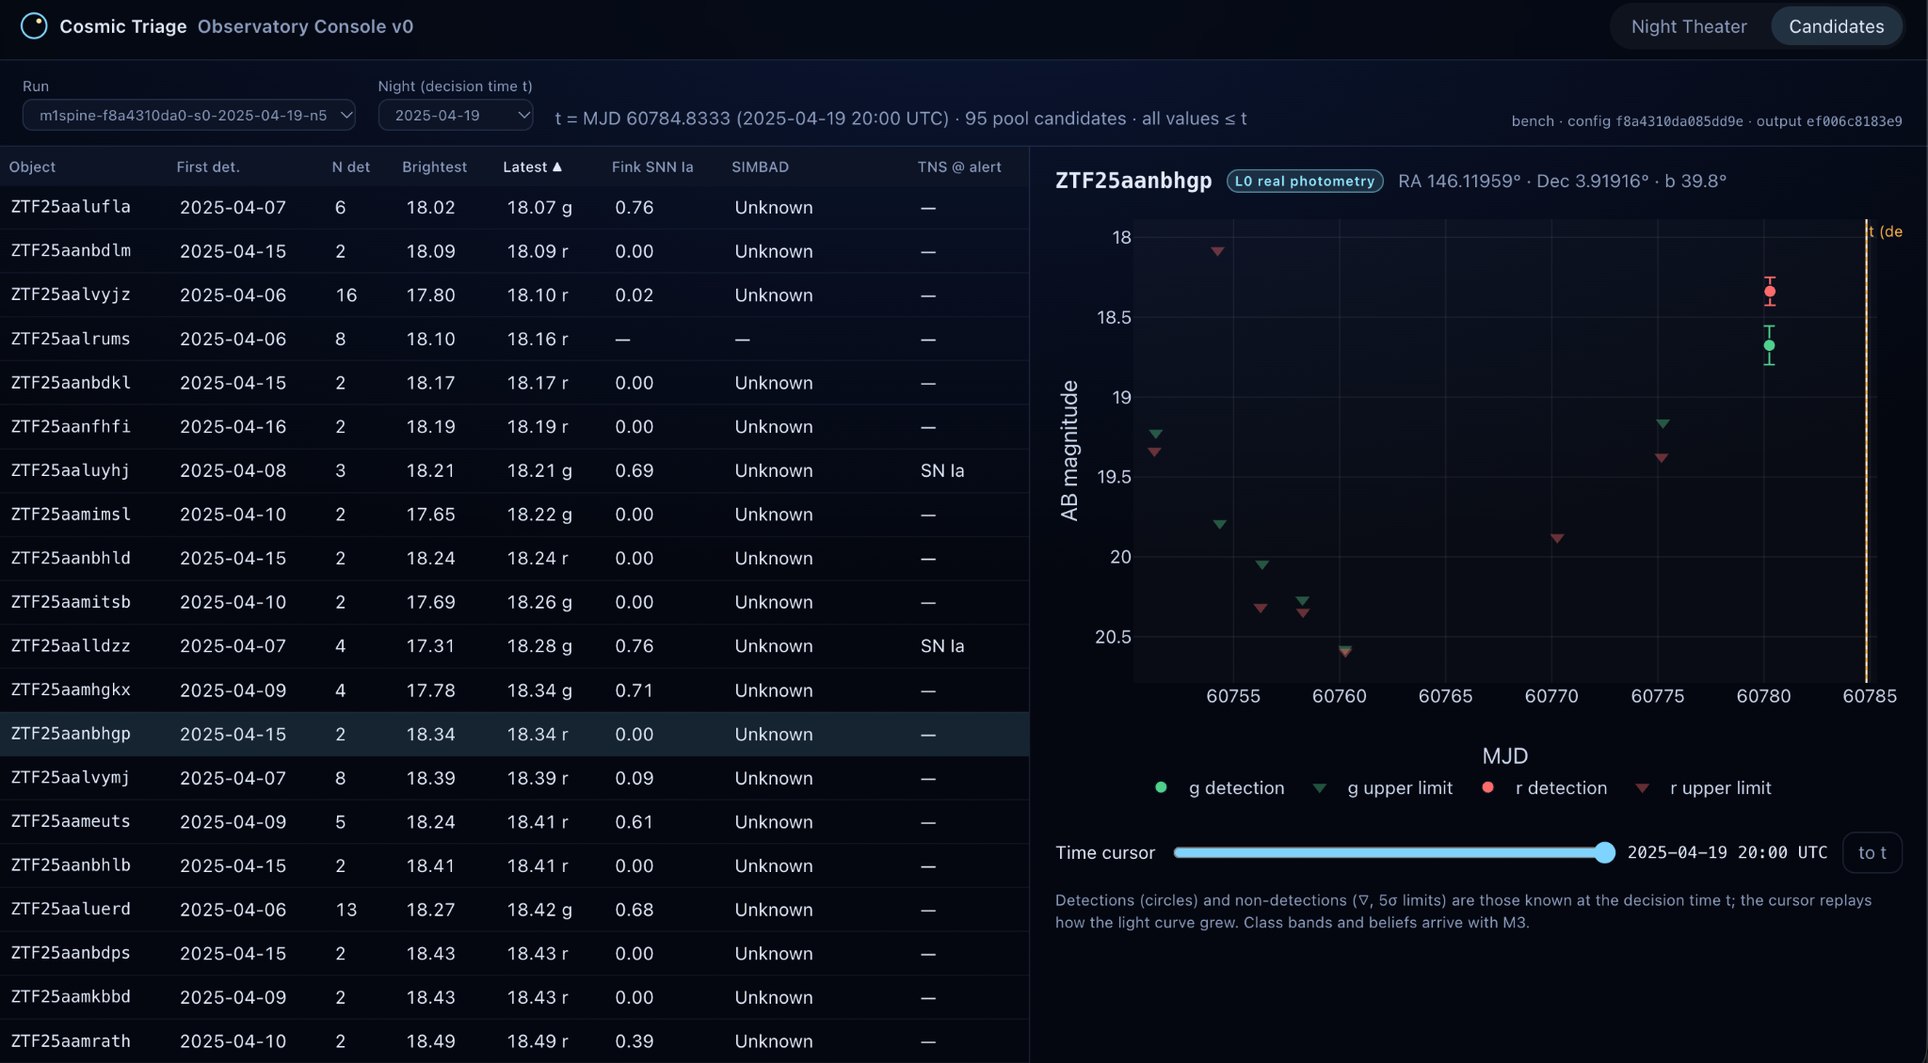
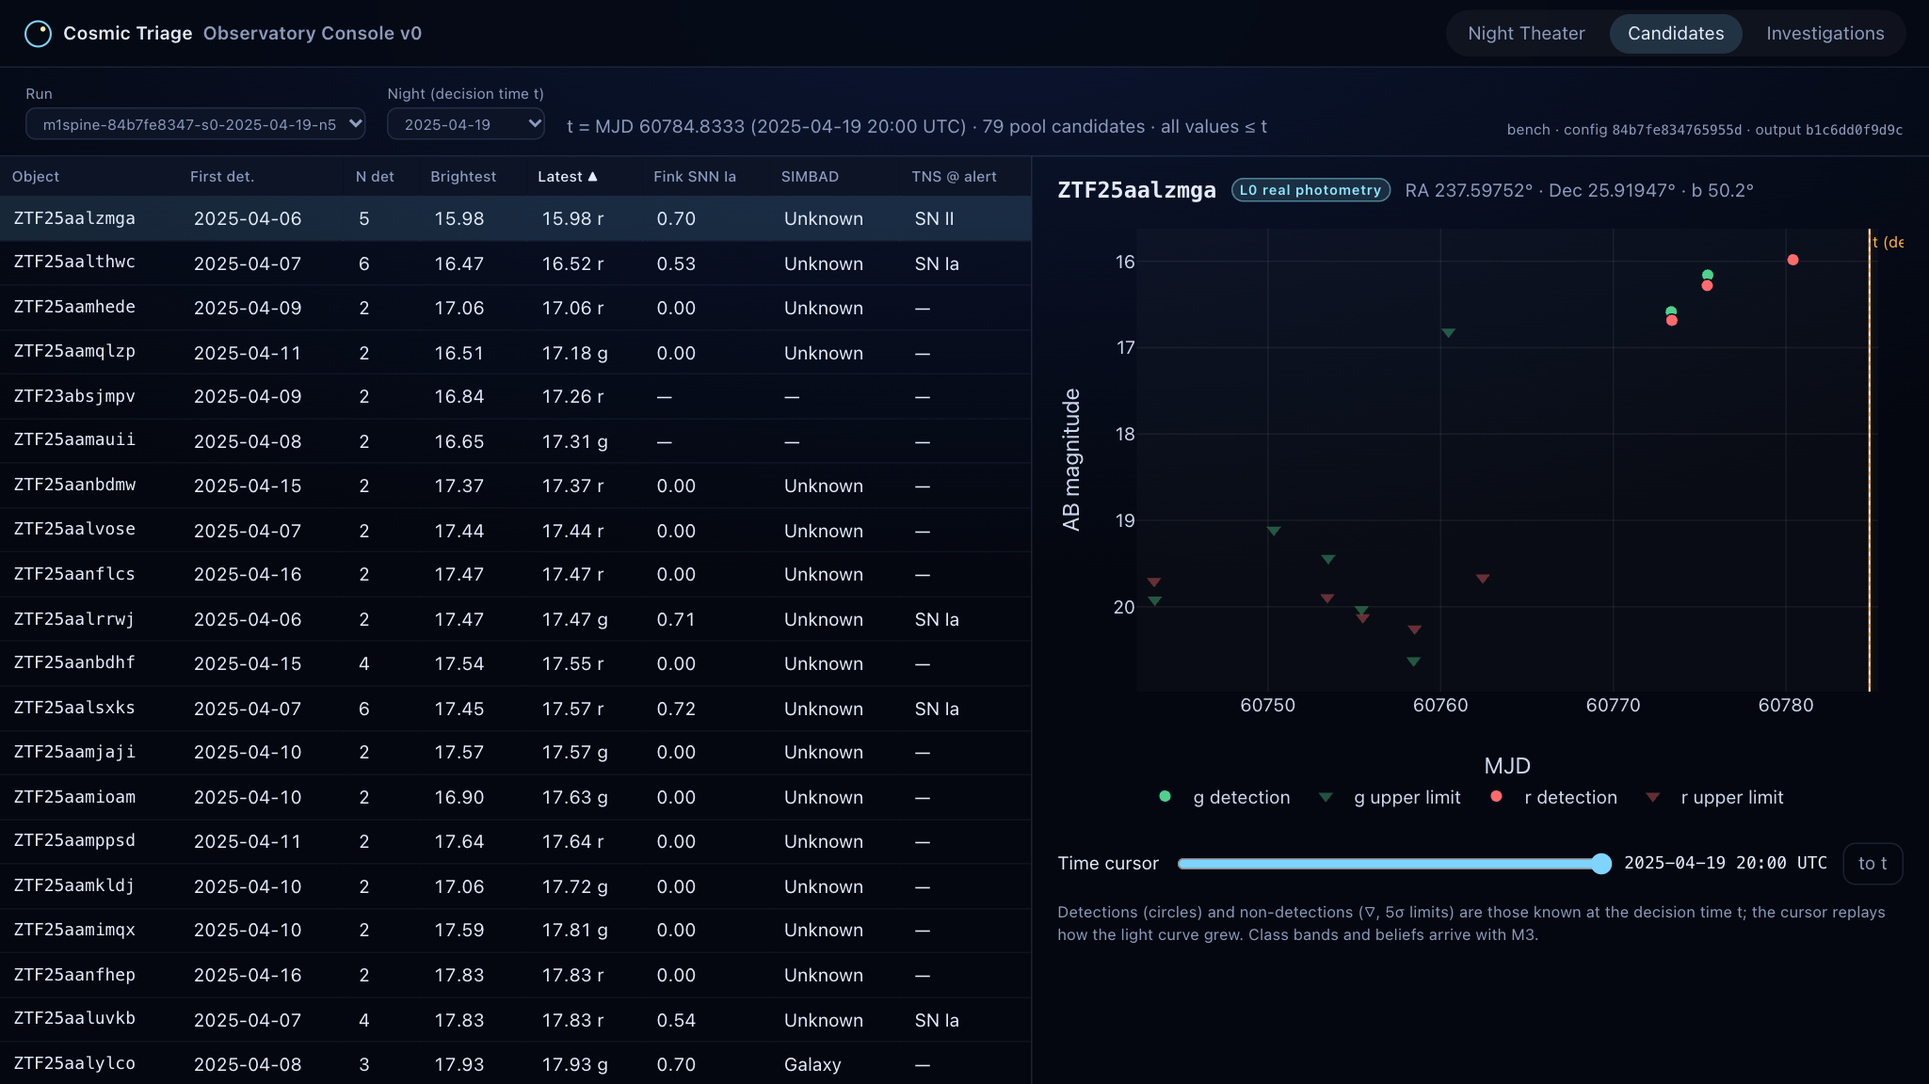
Public-release pass: README first impression, current screenshots, synthetic corpus fixtures
- README: opening now states the problem, the system, the Jev-vs-LLM-vs-deterministic question, and
  the time-honesty challenge, followed by a short "Built so far" summary in place of the long stage
  disclaimer. The status table still gives each component's precise status.
- Limitations are now one concise section. It makes clear that the 59.4% (85/143) recall measures the
  upstream candidate filter, not agent or Jev accuracy, and links M1.1/M2 for the full analyses.
- Mermaid diagram marks implemented (solid) vs planned (dashed, labelled) components.
- Screenshots recaptured from the current console (79-candidate M1.1 run, Investigations tab).
- GCN/ATel/AstroNote test fixtures replaced with synthetic pages that keep the parser structure and
  the leakage cases under test (scripts/make_corpus_fixtures.py); record_fixtures.py no longer
  copies published text into tests/fixtures.

No application, model, or scientific logic changed. 239 offline tests pass.

diff --git a/scripts/make_corpus_fixtures.py b/scripts/make_corpus_fixtures.py
@@ -1,0 +1,92 @@
+"""Write synthetic GCN / ATel / AstroNote fixtures for the offline corpus-parser tests.
+
+The text corpora are third-party publications, so the fixtures do not redistribute them: each payload reproduces
+only the page *structure* the parsers in ``cosmic_triage.ingest.corpora`` rely on (date stamp, title, references
+block, related-telegrams panel, AstroNote tooltips), with invented wording. They keep the leakage cases the tests
+check: later-telegram back-links in an ATel and current-type/redshift tooltips in an AstroNote listing.
+Offline; no network. Usage: uv run python scripts/make_corpus_fixtures.py
+"""
+
+from __future__ import annotations
+
+import sys
+
+from cosmic_triage.ingest import Cache
+from cosmic_triage.settings import PROJECT_ROOT
+
+SYNTHETIC = "SYNTHETIC TEST FIXTURE: invented text, not a real publication."
+
+GCN = {
+    "circularId": 39000,
+    "createdOn": 1737386652891,  # 2025-01-20 15:24:12 UTC (the date the parser test checks)
+    "eventId": "GRB 000000A",
+    "format": "text/plain",
+    "subject": "GRB 000000A: synthetic test circular",
+    "submittedHow": "web",
+    "submitter": "Test Author at Example Observatory",
+    "body": f"{SYNTHETIC}\nTest Author (Example Observatory) reports on behalf of the Example team:\n"
+            "A synthetic afterglow candidate was observed at a placeholder position. No real data.",
+}
+
+
+def _atel_ref(n: int) -> str:
+    return f'<A HREF="https://www.astronomerstelegram.org/?read={n}">{n}</a>'
+
+
+ATEL = f"""<html><head><title>ATel #17100: synthetic test telegram</title>
+<script type="text/javascript">var page = "synthetic";</script></head><body>
+<div id="header"><p>Synthetic header</p></div>
+<div id="telegram"><h1 class="title">Synthetic transient detected by the Einstein Probe test fixture</h1>
+<P><EM><STRONG><A HREF="mailto:none">Test Author (Example Observatory)</A> on behalf of the Einstein Probe team:</A></STRONG><BR>
+ on <STRONG>22 Mar 2025; 07:39 UT</STRONG><BR><EM>Credential: Test Author (Example Observatory)</EM></EM></P>
+<div id="subjects"><p class="subjects">Subjects: Optical, X-ray, Transient</P></div id="subjects">
+<div id="references"><p>Referred to by ATel #:  {_atel_ref(17101)},   {_atel_ref(17195)}</p></div id="references">
+<script type="text/javascript">var tweet = 1;</script>Tweet
+<P>{SYNTHETIC} The Einstein Probe test team reports a synthetic X-ray transient at a placeholder position.
+Follow-up is encouraged. This paragraph is the telegram body the parser keeps.</P>
+<div id="related"><p>Related: {_atel_ref(17101)} Synthetic later telegram; {_atel_ref(17195)} Another later telegram</p></div>
+</div></body></html>
+"""
+
+
+def _note(note_id: str, released: str, title: str, objname: str, cur_type: str, cur_z: str) -> str:
+    return (
+        f'<div id="note-{note_id}" class="note note-{note_id} clearfix note-public" note-id="{note_id}" row-index="0">'
+        '<div class="note-data-wrapper"><div class="note-top">'
+        f'<div class="note-top-param note-id"><a href="https://www.wis-tns.org/astronotes/astronote/{note_id}" '
+        f'class="note-link">AstroNote {note_id}</a></div>'
+        '<div class="note-top-param type">Type: <a href="#" class="note-type-link">Classification</a></div>'
+        f'<div class="note-top-param latmodified">Released: <span class="note-lastmodified">{released}</span></div></div>'
+        f'<div class="row-data"><div class="note-title">{title}</div>'
+        '<div class="note-coauthors">Test Author (Example Observatory)</div>'
+        '<div class="note-objects"><span class="field-title">Related Objects: </span><div class="object-wrapper">'
+        f'<a href="javascript:void(0)" ra="00:00:00.000" dec="+00:00:00.00" class="object-tooltip-link">{objname}</a>'
+        '<div class="object-tooltip description"><span class="tooltip-arrow-outer"></span>'
+        '<div class="tooltip-line"><span class="tootip-line-title">RA, DEC:</span>00:00:00.000 +00:00:00.00</div>'
+        f'<div class="tooltip-line"><span class="tootip-line-title">Redshift:</span>{cur_z}</div>'
+        f'<div class="tooltip-line"><span class="tootip-line-title">Type:</span>{cur_type}</div>'
+        '<span class="tooltip-arrow-inner"></span></div></div></div>'
+        f'<div class="note-abstract">{SYNTHETIC} Synthetic abstract for {objname}.</div></div></div></div>\n'
+    )
+
+
+ASTRONOTE = (
+    "<html><body><div class=\"notes-list\">\n"
+    + _note("2026-291", "2026-10-14 15:53:52", "Synthetic classification note A", "2026aaa", "SN Ia", "0.05")
+    + _note("2026-290", "2026-10-13 09:12:05", "Synthetic classification note B", "2026aab", "SN II", "0.02")
+    + _note("2026-289", "2026-10-12", "Synthetic follow-up note C", "2026aac", "", "")
+    + "</div></body></html>\n"
+)
+
+
+def main() -> int:
+    fx = Cache(root=PROJECT_ROOT / "tests" / "fixtures" / "cache", offline=False)
+    fx.put("gcn", "circular", {"id": 39000}, GCN)
+    fx.put("atel", "telegram", {"read": 17100}, ATEL)
+    fx.put("astronote", "listing", {"page": 0}, ASTRONOTE)
+    print("wrote synthetic gcn.circular, atel.telegram, astronote.listing fixtures")
+    return 0
+
+
+if __name__ == "__main__":
+    sys.exit(main())

diff --git a/scripts/record_fixtures.py b/scripts/record_fixtures.py
@@ -54,12 +54,11 @@ def main() -> int:
     copy("simbad", "cone", {"ra": 186.27, "dec": 12.887, "r": 60, "top": 25})
     NedClient(live).cone(186.27, 12.887, 60)
     copy("ned", "cone", {"ra": 186.27, "dec": 12.887, "r": 60, "top": 25})
+    # GCN / ATel / AstroNote fixtures are synthetic (third-party publications are not redistributed):
+    # see scripts/make_corpus_fixtures.py. The live fetches below only warm the local cache.
     GcnClient(live).circular(39000)
-    copy("gcn", "circular", {"id": 39000})
     AtelClient(live).raw(17100)
-    copy("atel", "telegram", {"read": 17100})
     AstroNoteClient(live).listing_raw(0)
-    copy("astronote", "listing", {"page": 0})
     # BTS: trimmed copy of the snapshot (header + probe rows + a deterministic sample incl. unclassified rows).
     rcfg, _ = load_config("configs/replay/replay.yaml")
     params = {"snapshot_date": str(rcfg["bts_snapshot_date"]), **UNFILTERED_PARAMS}

diff --git a/README.md b/README.md
@@ -1,51 +1,59 @@
 # Cosmic Triage
 
-**Cosmic Triage investigates astronomical transients using grounded AI agents to determine which objects deserve limited telescope follow-up time.**
+**Cosmic Triage investigates astronomical transients with grounded AI agents to decide which objects deserve limited telescope follow-up time, using only the evidence that existed at the moment of decision.**
 
-### Can a grounded AI investigator make better decisions about where to point a telescope?
+**The problem.** Sky surveys such as the Zwicky Transient Facility (ZTF) report far more new transient candidates every night than follow-up telescopes can observe. Some are exploding stars worth a spectrum. Others are variable stars, active galaxies, asteroids, or artifacts, and some were already classified by another team hours earlier. Every night, someone has to decide which few candidates get the telescope.
 
-Astronomical surveys surface more transient candidates than a follow-up telescope can observe. Some are newly exploding stars. Others are variable galaxies, stars, asteroids, or artifacts. A promising target might already have been classified by another team. The difficult question is not just **what is this object?** It is **which observation is worth spending limited telescope time on, given what was known at that moment?**
+**The system.** Cosmic Triage replays real ZTF nights and sends candidates to an **Investigator**. This is a code-owned agent loop with six scientific tools. Every claim it makes must cite dated evidence in an EvidenceLedger and pass a deterministic validator chain before it can influence a decision. An interactive **Observatory Console** replays the night at Palomar and shows each investigation step by step.
 
-Cosmic Triage is a learning-driven engineering project exploring that question with historical observations from the Zwicky Transient Facility (ZTF). It is being built to combine a tool-using AI Investigator, evidence validation, probabilistic decision-making, observation scheduling, and an interactive replay of a night at Palomar Observatory.
+**The question.** Where do specialized decision models such as TypeSafe's **Jev** outperform larger LLMs or deterministic code on decision quality, latency, and cost, and where don't they? Each model sits in a swappable slot (gate, extractor, verifier) alongside a deterministic baseline, so its contribution can be measured rather than assumed.
 
-The broader engineering objective is to measure whether **typed, tool-using agents improve decisions over simpler approaches**, such as rules, broker scores, and non-agent baselines, once evidence quality, reliability, and inference cost are accounted for. The system is a research prototype. It does **not** control a physical telescope and makes no claim of new astronomical discovery.
+**The engineering challenge.** Decisions must be historically honest. Each candidate is judged at a past decision time *t*, using only what was known then. A detection is excluded if it was delivered in a later alert, and catalog entries or reports dated after *t* are filtered out at the tool layer. Adversarial leakage fixtures enforce this on every test run.
 
-> **Current stage: Investigator v1 implemented and running in deterministic, exploratory mode.** Historical replay and the Observatory Console run on real ZTF data. The Claude and Jev integrations are implemented behind feature flags but have **not yet been exercised with live paid model calls**. The scheduler and the comparative benchmark are next, so there are **no benchmark results yet**. See [Project status](#project-status).
+**Built so far:** a six-tool Investigator with evidence provenance and deterministic validation, time-bounded replay of real ZTF observations, and an interactive Observatory Console. Claude and Jev decision components are integrated for controlled evaluation. Live model evaluation, the telescope scheduler, and comparative benchmarks are the next milestones ([status](#project-status)).
 
 ## See it in action
 
-![Night Theater: a replayed night at Palomar with candidates on the sky, Sun and Moon, the 30° altitude limit, and a selected candidate's light curve](docs/assets/night-theater.png)
+![Night Theater: a replayed night at Palomar with candidates on the sky dome, the 30° altitude limit, and the selected candidate ZTF25aalzmga with its light curve](docs/assets/night-theater.png)
 
-*Night Theater: scrub through a historical night at Palomar to see candidates move across the sky, twilight and Moon, and which targets clear the 30° altitude limit.*
+*Night Theater: a replay of the night of 2025-04-19 at Palomar, with candidates moving across the sky. The selected supernova candidate shows its track, its altitude, and what was known at decision time.*
 
-![Candidate Explorer: a table of pool candidates at the decision time and one candidate's light curve with detections and upper limits](docs/assets/candidate-explorer.png)
+![Candidate Explorer: the candidate pool at decision time t and the light curve of ZTF25aalzmga with detections and upper limits](docs/assets/candidate-explorer.png)
 
-*Candidate Explorer: each candidate's light curve and the information available at the historical decision time t. Circles are detections; triangles are non-detection limits (lower magnitude = brighter).*
+*Candidate Explorer: the candidate pool at decision time t. Every value shown was known at or before t; circles are detections and triangles are non-detection limits.*
 
-These screenshots come from the early S0 console, captured before the M1.1 replay-integrity fixes. Candidate counts have since changed: the 2025-04-19 pool shown here had 95 candidates and now has 79. The current console also has an **Investigations** tab. The telescope is simulated; the ZTF observations are historical.
+![Investigations view: the trace for ZTF25aalzmga, showing tool calls, a validated prior-classification claim with its checks, the code-owned effect on spectrum reward, and the evidence ledger dated relative to t](docs/assets/investigations.png)
+
+*Investigation trace for the same object: Fink's alert-time record shows it was already classified as SN II 11.5 days before t. The claim passes all six validation checks, and code sets that candidate's spectrum reward factor to 0. This is an exploratory run, not a benchmark.*
+
+The telescope is simulated; the ZTF observations are real and historical.
 
 ## How it works
 
 ```mermaid
 flowchart TD
     A[Historical ZTF alerts and catalog data] --> B[Time-bounded candidate snapshots]
-    B --> C[Candidate beliefs]
+    B --> C["Calibrated candidate beliefs (planned)"]
     B --> D[AI Investigator]
     D --> E[Scientific tools and dated sources]
     E --> F[Typed evidence and claims]
     F --> G[Deterministic validation and evidence ledger]
     G --> H[Code-owned effects on decisions]
-    C --> I[Expected observation value]
+    C --> I["Expected observation value (planned)"]
     H --> I
-    I --> J[Visibility and telescope-time scheduler]
-    J --> K[Historical replay and policy comparison]
+    I --> J["Visibility and telescope-time scheduler (planned)"]
+    J --> K["Policy comparison on replayed nights (planned)"]
     K --> L[Observatory Console and Night Theater]
+    B --> L
+    G --> L
 
-    classDef planned stroke-dasharray: 5 5
+    classDef planned stroke-dasharray: 6 4,stroke-width:1px
+    classDef built stroke-width:2px
+    class A,B,D,E,F,G,H,L built
     class C,I,J,K planned
 ```
 
-*Dashed boxes are planned for M3–M4. Beliefs are currently an uncalibrated stub; the only implemented decision effect is the spectrum-reward adjustment for objects already classified at t.*
+*Solid boxes are implemented; dashed boxes are planned for M3–M4. Beliefs are currently an uncalibrated stub. The only decision effect implemented so far is the spectrum-reward adjustment for objects already classified at t.*
 
 **The AI does not get to invent a probability or directly command a telescope.** Models can decide *what to investigate*, call tools, and propose evidence-backed claims. Before an accepted claim can influence a decision, deterministic code checks:
 
@@ -93,29 +101,23 @@ One example of the intended behavior: if a candidate was **already classified be
 
 The offline test suite has 239 tests and makes no network calls.
 
-### What the exploratory runs show, and what they don't
+## Current limitations and ongoing validation
 
-In an initial **20-candidate exploratory batch**, the deterministic Investigator:
+- **The Investigator has so far run in deterministic mode only.** In a 20-candidate exploratory batch it:
+  - stayed within budget on every run
+  - accepted 19 claims, none citing evidence dated after t
+  - ended each run with validated claims or an explicit `no_context_found`
+  - flagged 2 candidates as already classified at t
 
-- terminated within its budgets on all 20 cases
-- recorded **19 accepted claims** and **0 accepted claims citing evidence dated after t**
-- ended every run with either validated claims or an explicit `no_context_found` outcome
-- identified 2 candidates as already classified at t
+  This is a smoke test, not a benchmark. Claude and Jev have not yet been called live, and comparative model benchmarks have not been run.
+- **Upstream candidate recall is 59.4% (85 of 143 object-nights).** This measures the replay's bright-transient candidate filter: which real, bright BTS transients reach the Investigator at all. It is *not* a measure of Jev accuracy, agent reasoning quality, or claim verification. Part of the shortfall comes from deliberately conservative historical-detection rules. For example, older unrelated activity at a supernova's position can make it look too old for the 14-day window.
+- **Open scientific issues:**
+  - filtering known asteroids, which make up 28 of 50 provisional contaminants
+  - historical availability of host-galaxy associations, which are currently treated as static
+  - contaminant labels that are provisional until a 30-object human audit
+  - TNS classification report dates, which await TNS bot access. Fink's alert-time labels are used only as tool evidence, never as ground truth.
 
-A hand review of all 20 dossiers found and fixed one bug: a catalogue placeholder redshift of 0.0 had been accepted as data. It also recorded the remaining error categories in [`runs/reports/M2.md`](runs/reports/M2.md).
-
-These are engineering smoke tests, **not evidence that an AI agent improves telescope decisions**. No paid model calls were made, and no benchmark comparison has been run yet.
-
-### Known limitations
-
-These limitations are documented in [`runs/reports/M1.1.md`](runs/reports/M1.1.md) and [`runs/reports/M2.md`](runs/reports/M2.md):
-
-- **Candidate recall.** Of bright (≤ 18.5 mag) BTS transients first detected within the 14-day window, the replay's candidate selection currently admits 59.4% (85 of 143 object-nights). Every miss is attributed to a specific rule. The most common reason (24 misses) is an alert-reported history start that places the first detection before the window. This also rejects some real supernovae that had unrelated, years-older activity at the same position. Whether to keep that rule is an open architecture decision.
-- **Known asteroids** pass the pre-filter. They account for 28 of 50 provisional contaminants (56%), and no Investigator tool can identify them yet.
-- **Contaminant labels are provisional** pending a 30-object human audit (`runs/reports/labels_audit.md`).
-- **Some context is not time-versioned.** Lasair/Sherlock host associations are treated as static, so they need stronger historical-availability checks before benchmark evaluation.
-- **Classification report dates are unavailable** until TNS bot access is approved. Fink's alert-time TNS labels are used only as "known by this alert" tool evidence, never as ground truth.
-- **Validation radii and redshift-quality handling are conservative first choices.** For example, one AGN association at about 2″ was missed, and one poor photometric redshift produced an implausible absolute magnitude.
+Detailed failure analyses, per-miss attributions, error categories (including one bug found and fixed in hand review), and the unresolved scientific decisions are in [`runs/reports/M1.1.md`](runs/reports/M1.1.md) and [`runs/reports/M2.md`](runs/reports/M2.md).
 
 ## What we're testing next
 
@@ -197,6 +199,7 @@ Paid model calls stay disabled even when keys are present. Enabling them require
 - Import-linter contracts in `pyproject.toml` enforce the data boundaries. For example, only `replay` may read truth labels, and the Investigator never reads the raw cache.
 - Every run records its seed, config hash, and output hash. Identical inputs reproduce identical output hashes.
 - [`runs/reports/`](runs/reports/) records milestone outcomes ([M0](runs/reports/M0.md), [M1](runs/reports/M1.md), [M1.1](runs/reports/M1.1.md), [M2](runs/reports/M2.md)), open scientific questions, and known limitations.
+- **Engineering process.** The design evolved through written reviews (`docs/REVIEW-*.md`) and was implemented milestone by milestone with Claude Code, following `CLAUDE.md`. "Fable" and "Opus" in those documents are the Claude models used as design reviewer and implementer. Each milestone report lists the decisions made and the questions escalated for review.
 
 ## Data sources and acknowledgments
 
@@ -207,6 +210,6 @@ This project relies on public astronomy data and services:
 - [SIMBAD](https://simbad.cds.unistra.fr/) (CDS, Strasbourg) and the [NASA/IPAC Extragalactic Database](https://ned.ipac.caltech.edu/)
 - the [Transient Name Server](https://www.wis-tns.org/)
 
-`tests/fixtures/` holds a small number of recorded public responses used as offline test fixtures. `runs/` holds derived replay artifacts. Please follow each provider's acknowledgment and usage policies if you reuse the data.
+`tests/fixtures/` holds a small number of recorded broker and catalog query responses used as offline test fixtures. The text-corpus fixtures (GCN, ATel, and AstroNotes) are synthetic and generated by `scripts/make_corpus_fixtures.py`, so no published third-party text is redistributed. `runs/` holds derived replay artifacts. Please follow each provider's acknowledgment and usage policies if you reuse the data.
 
 The project's goal is an **auditable answer** to a practical AI-systems question: *when does a grounded, budgeted, tool-using agent actually make a better decision than simpler software?*
